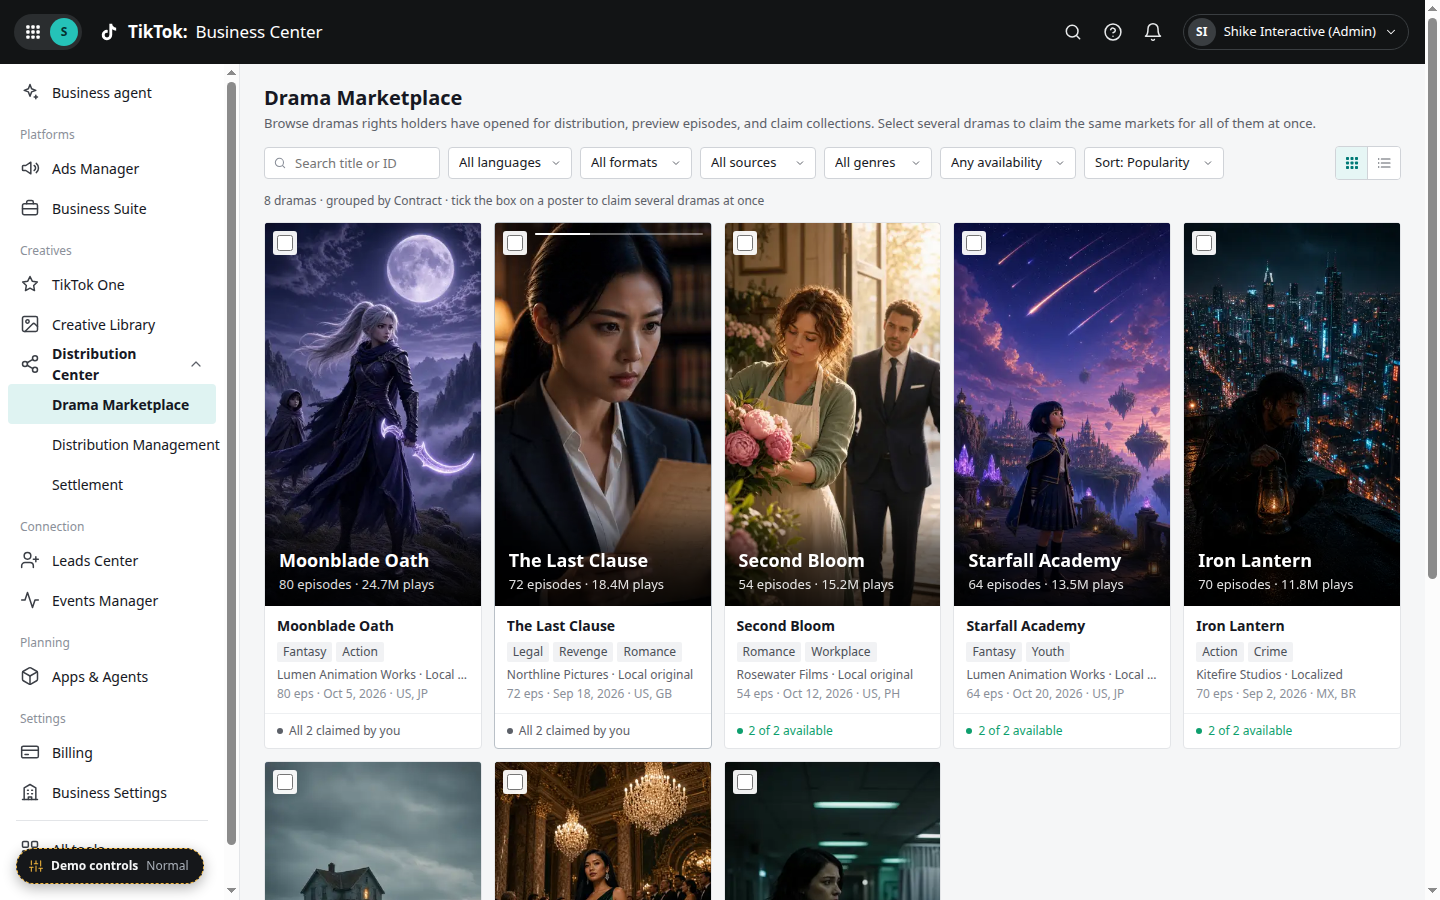
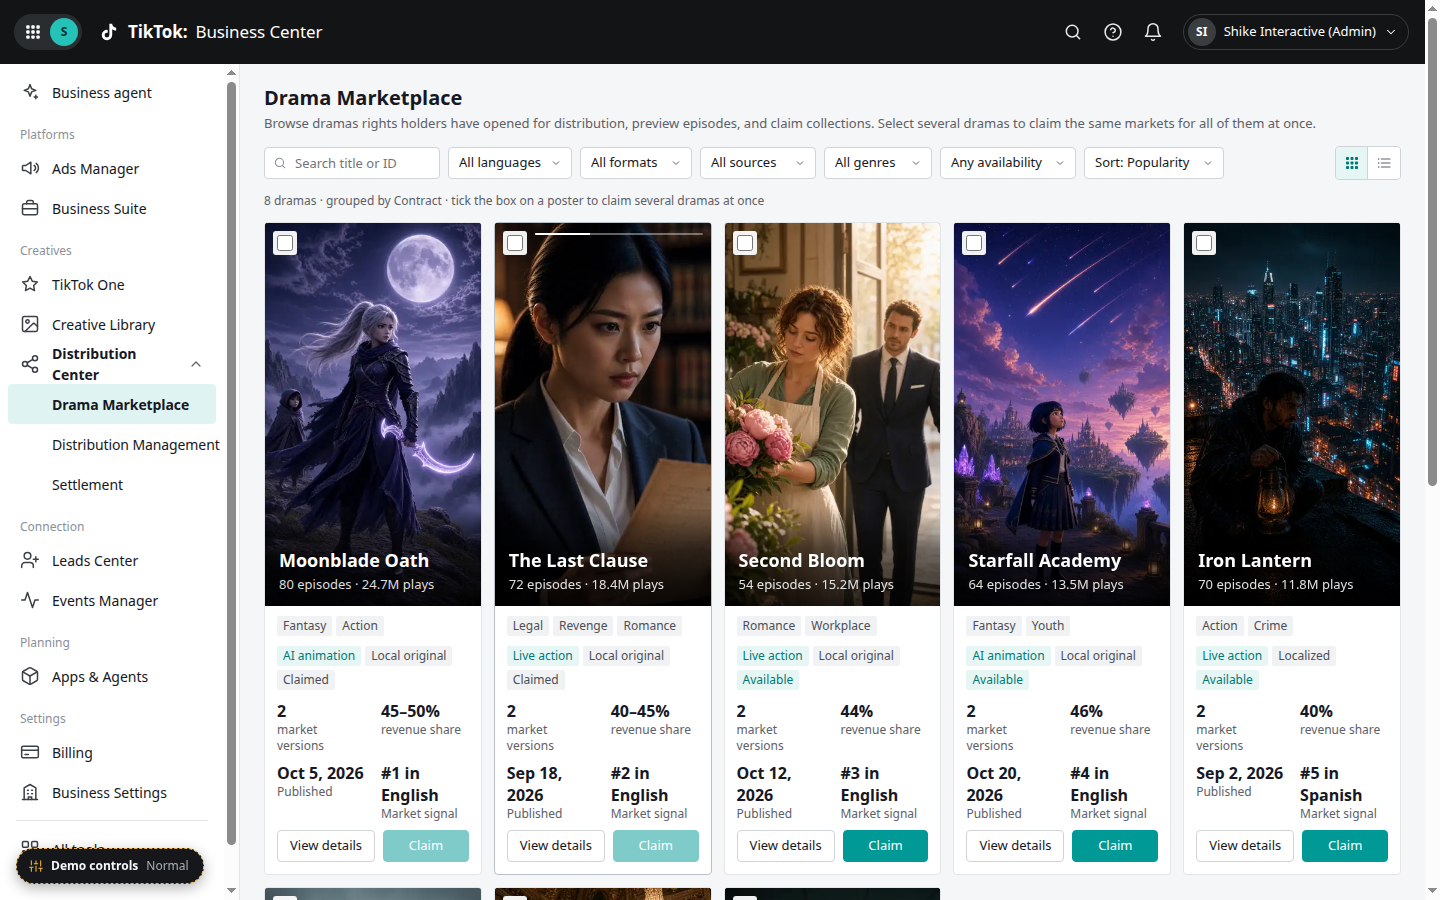
Sync prototype: restore Marketplace card stats body
Keep 9:16 covers with title, episodes, and plays on the overlay. Restore the pre-2171cc3 card body (format/source/status tags, market versions, revenue share, published, market signal, View details / Claim) and move genre tags up one row. List view is unchanged.

Changed region(s): [[0.1562, 0.6844, 0.9688, 1.0], [0.9688, 0.5289, 1.0, 0.6533]]

diff --git a/index.html b/index.html
@@ -234,12 +234,17 @@ button.kpi.on{box-shadow:inset 0 -2px 0 var(--primary)}
 .ov-copy{min-width:0;flex:1}
 .ov-t{font-size:18px;font-weight:700;line-height:24px;color:#fff;text-shadow:0 1px 2px rgba(0,0,0,.35)}
 .ov-m{font-size:13px;line-height:20px;color:rgba(255,255,255,.88);margin-top:2px}
-.card-b{padding:10px 12px;display:flex;flex-direction:column;gap:1px;flex:1;min-width:0}
+.card-b{padding:10px 12px 8px;display:flex;flex-direction:column;gap:10px;min-width:0}
 .card-t{font-size:14px;font-weight:600;line-height:20px;color:var(--text)}
 .card-m{font-size:12px;color:var(--text2);line-height:18px}
 .card .ell{white-space:nowrap;overflow:hidden;text-overflow:ellipsis}
-.card .tags{max-height:20px;overflow:hidden;margin:5px 0 3px}
+.card .tags{display:flex;flex-wrap:wrap;gap:4px;max-height:none;overflow:visible;margin:0}
 .card-meta{font-size:12px;color:var(--text3);line-height:18px}
+.card-stats{display:grid;grid-template-columns:1fr 1fr;gap:8px 16px}
+.card-stats .n{font-size:16px;font-weight:600;line-height:22px;color:var(--text)}
+.card-stats .l{font-size:12px;color:var(--text2);line-height:16px}
+.card-acts{display:grid;grid-template-columns:1fr 1fr;gap:8px;padding:0 12px 12px}
+.card-acts .btn{width:100%}
 .card-f{padding:7px 12px;border-top:1px solid var(--row);display:flex;align-items:center;min-height:31px;font-size:12px}
 .mk-count{font-size:12px;color:var(--text2)}
 .thumb.wide{width:48px;height:27px}
@@ -1149,21 +1154,27 @@ function cover(id){
 }
 function card(c){
   const on = UI.pick.has(c.id);
-  const markets = Array.from(new Set(colsOf(c.id).map(x => x.code))).join(', ');
+  const st = mkStats(c);
   const ovMeta = `${c.episodes} episodes · ${c.plays} plays`;
-  const meta = `${c.episodes} eps · ${c.launchL} · ${markets}`;
   return `<div class="card ${on ? 'picked' : ''}" role="button" tabindex="0" data-act="open-drama" data-id="${c.id}" aria-label="${esc(c.title)}">
     ${cover(c.id)}
       <div class="ov-tl"><label class="card-pick" title="Select for bulk claim"><input type="checkbox" class="cb" name="pick-${c.id}" data-chg="mk-pick" data-id="${c.id}" ${on ? 'checked' : ''} aria-label="Select ${esc(c.title)}"></label></div>
       <div class="ov-b"><div class="ov-copy"><div class="ov-t ell" title="${esc(c.title)}">${c.title}</div><div class="ov-m ell" title="${esc(ovMeta)}">${esc(ovMeta)}</div></div></div>
     </div>
     <div class="card-b">
-      <div class="card-t ell" title="${esc(c.title)}">${c.title}</div>
       <div class="tags">${c.genres.map(g => '<span class="tag">' + g + '</span>').join('')}</div>
-      <div class="card-m ell" title="${esc(c.holder + ' · ' + c.source)}">${c.holder} · ${c.source}</div>
-      <div class="card-meta ell" title="${esc(c.episodes + ' episodes · launched ' + c.launchL + ' · markets ' + markets)}">${meta}</div>
+      <div class="tags"><span class="tag teal">${esc(c.format)}</span><span class="tag">${esc(c.source)}</span><span class="tag ${st.statusCls}">${st.status}</span></div>
+      <div class="card-stats">
+        <div><div class="n">${st.n}</div><div class="l">market versions</div></div>
+        <div><div class="n">${st.share}</div><div class="l">revenue share</div></div>
+        <div><div class="n">${c.launchL}</div><div class="l">Published</div></div>
+        <div><div class="n">${esc(st.signal)}</div><div class="l">Market signal</div></div>
+      </div>
     </div>
-    <div class="card-f">${claimSummary(c.id)}</div></div>`;
+    <div class="card-acts">
+      <button type="button" class="btn" data-act="open-drama" data-id="${c.id}">View details</button>
+      <button type="button" class="btn btn-primary" data-act="mk-claim" data-id="${c.id}" ${st.canClaim ? '' : 'disabled'}>Claim</button>
+    </div></div>`;
 }
 
 /* Cover hover previews: clip, keyframes, static */
